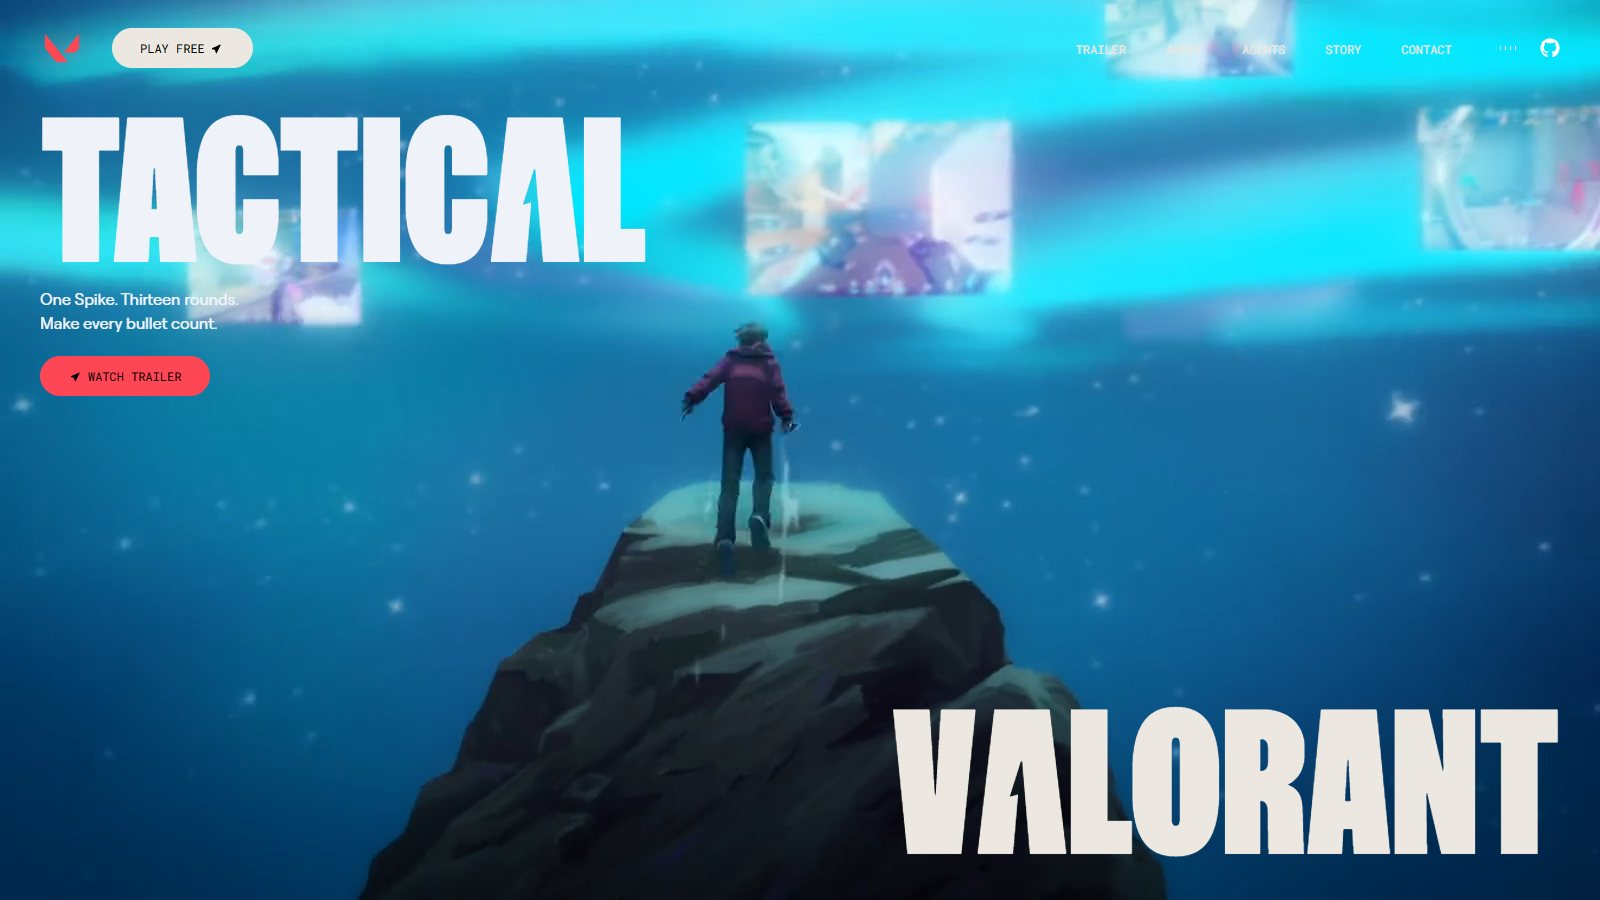
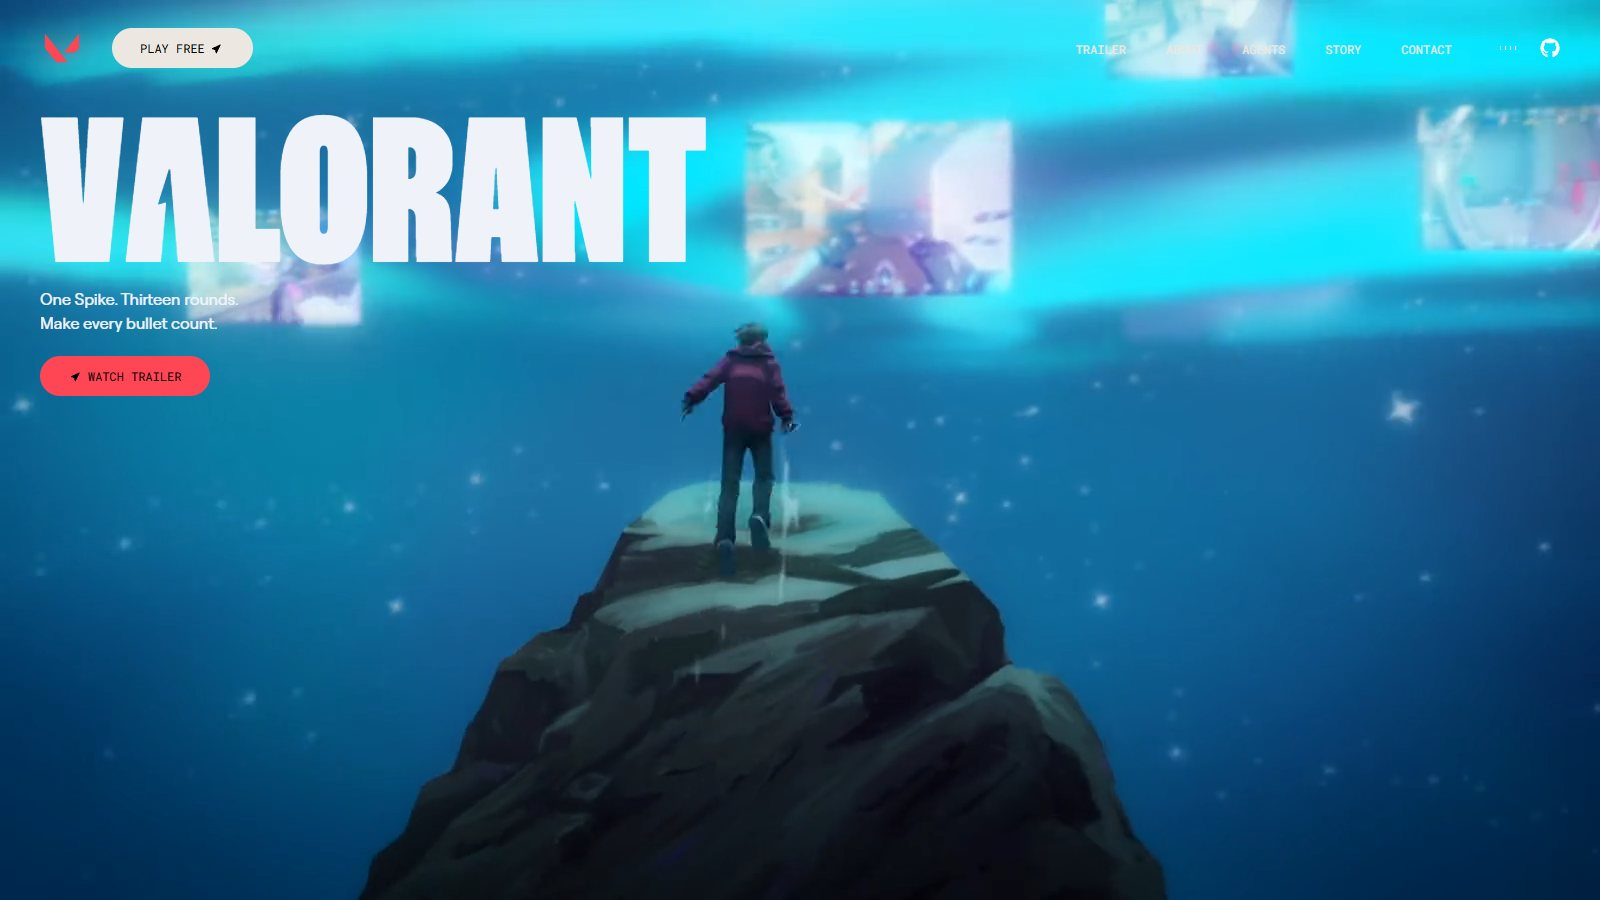
fix(hero,contact): move the hero headline and stop the art covering the CTA copy
Hero: drop the 'Tactical' headline and move 'Valorant' into the vacated top-left slot. The clip-path reveal copy mirrors it through an identical layout wrapper, so both copies land on the same rect (40,96 @1600 and 20,96 @390) and the unfurl stays aligned. The tagline and button keep their previous y positions.

Contact: add relative z-10 to the copy column. The art panels are absolutely positioned, so they painted above the static column and sliced words off both ends of the heading from 640px to 1280px ('LIMITS O', 'OGETH'). The headline is now fluid via clamp(3rem,8vw,6rem) so it cannot outgrow the box, with a soft text shadow for legibility where it crosses the key art. The 1600px desktop size is unchanged at 6rem.

Regenerates the hero and contact README screenshots.

Changed region(s): [[0.5625, 0.7778, 1.0, 0.9644], [0.0312, 0.1244, 0.4688, 0.3111]]

diff --git a/src/components/hero.tsx b/src/components/hero.tsx
@@ -176,14 +176,10 @@ export const Hero = () => {
           />
         </div>
 
-        <h1 className="special-font hero-heading text-blue-75 absolute right-5 bottom-5 z-40">
-          V<b>a</b>lorant
-        </h1>
-
         <div className="absolute top-0 left-0 z-40 size-full">
           <div className="mt-24 px-5 sm:px-10">
             <h1 className="special-font hero-heading text-blue-100">
-              Tactic<b>a</b>l
+              V<b>a</b>lorant
             </h1>
 
             <p className="font-robert-regular mb-5 max-w-64 text-blue-100">
@@ -202,9 +198,17 @@ export const Hero = () => {
         </div>
       </div>
 
-      <h1 className="special-font hero-heading absolute right-5 bottom-5 text-black">
-        V<b>a</b>lorant
-      </h1>
+      {/*
+        Mirrors the heading inside #video-frame at the same coordinates, so the
+        clip-path unfurl reveals the black copy exactly behind the cream one.
+      */}
+      <div className="pointer-events-none absolute top-0 left-0 size-full">
+        <div className="mt-24 px-5 sm:px-10">
+          <h1 className="special-font hero-heading text-black">
+            V<b>a</b>lorant
+          </h1>
+        </div>
+      </div>
     </section>
   );
 };

diff --git a/src/components/contact.tsx b/src/components/contact.tsx
@@ -45,12 +45,17 @@ export const Contact = () => {
           />
         </div>
 
-        <div className="flex flex-col items-center text-center">
+        {/*
+          z-10 puts the copy above the absolutely-positioned art panels. Without
+          it the panels paint over the heading (positioned boxes beat static
+          ones) and chop words off at both ends on tablet widths.
+        */}
+        <div className="relative z-10 flex flex-col items-center text-center">
           <p className="font-general text-[10px] uppercase">
             Join the Protocol
           </p>
 
-          <p className="special-font font-zentry mt-10 w-full text-5xl leading-[0.9] md:text-[6rem]">
+          <p className="special-font font-zentry mt-10 w-full text-[clamp(3rem,8vw,6rem)] leading-[0.9] [text-shadow:0_2px_20px_rgba(0,0,0,0.55)]">
             Let's def<b>y</b> the
             <br /> limits of play <br /> t<b>o</b>gether
           </p>
